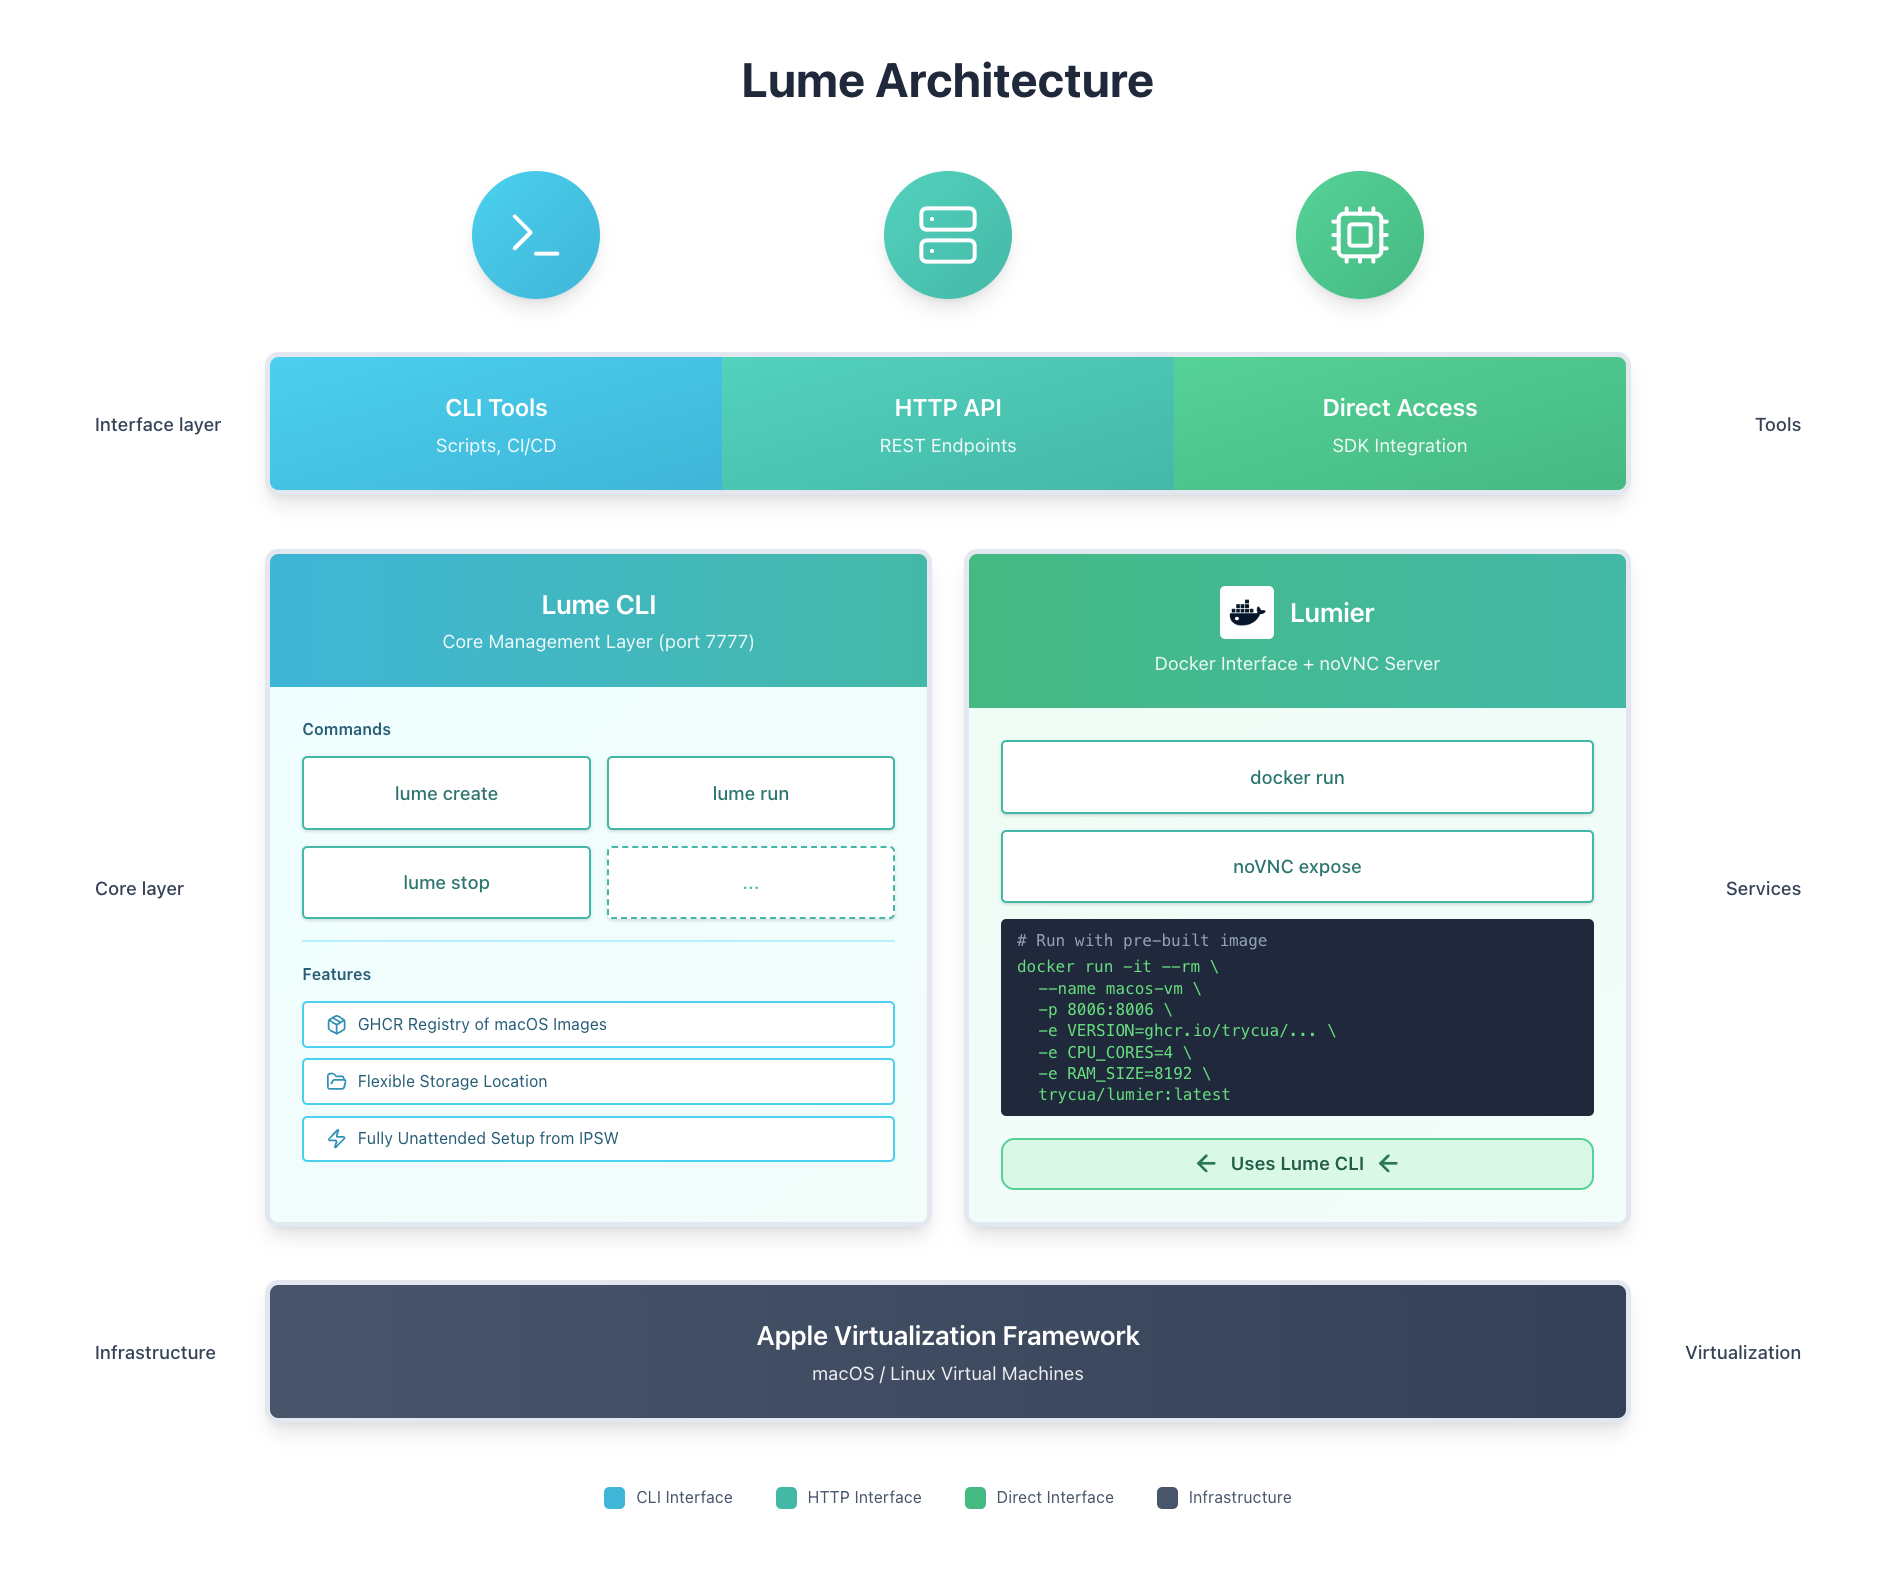
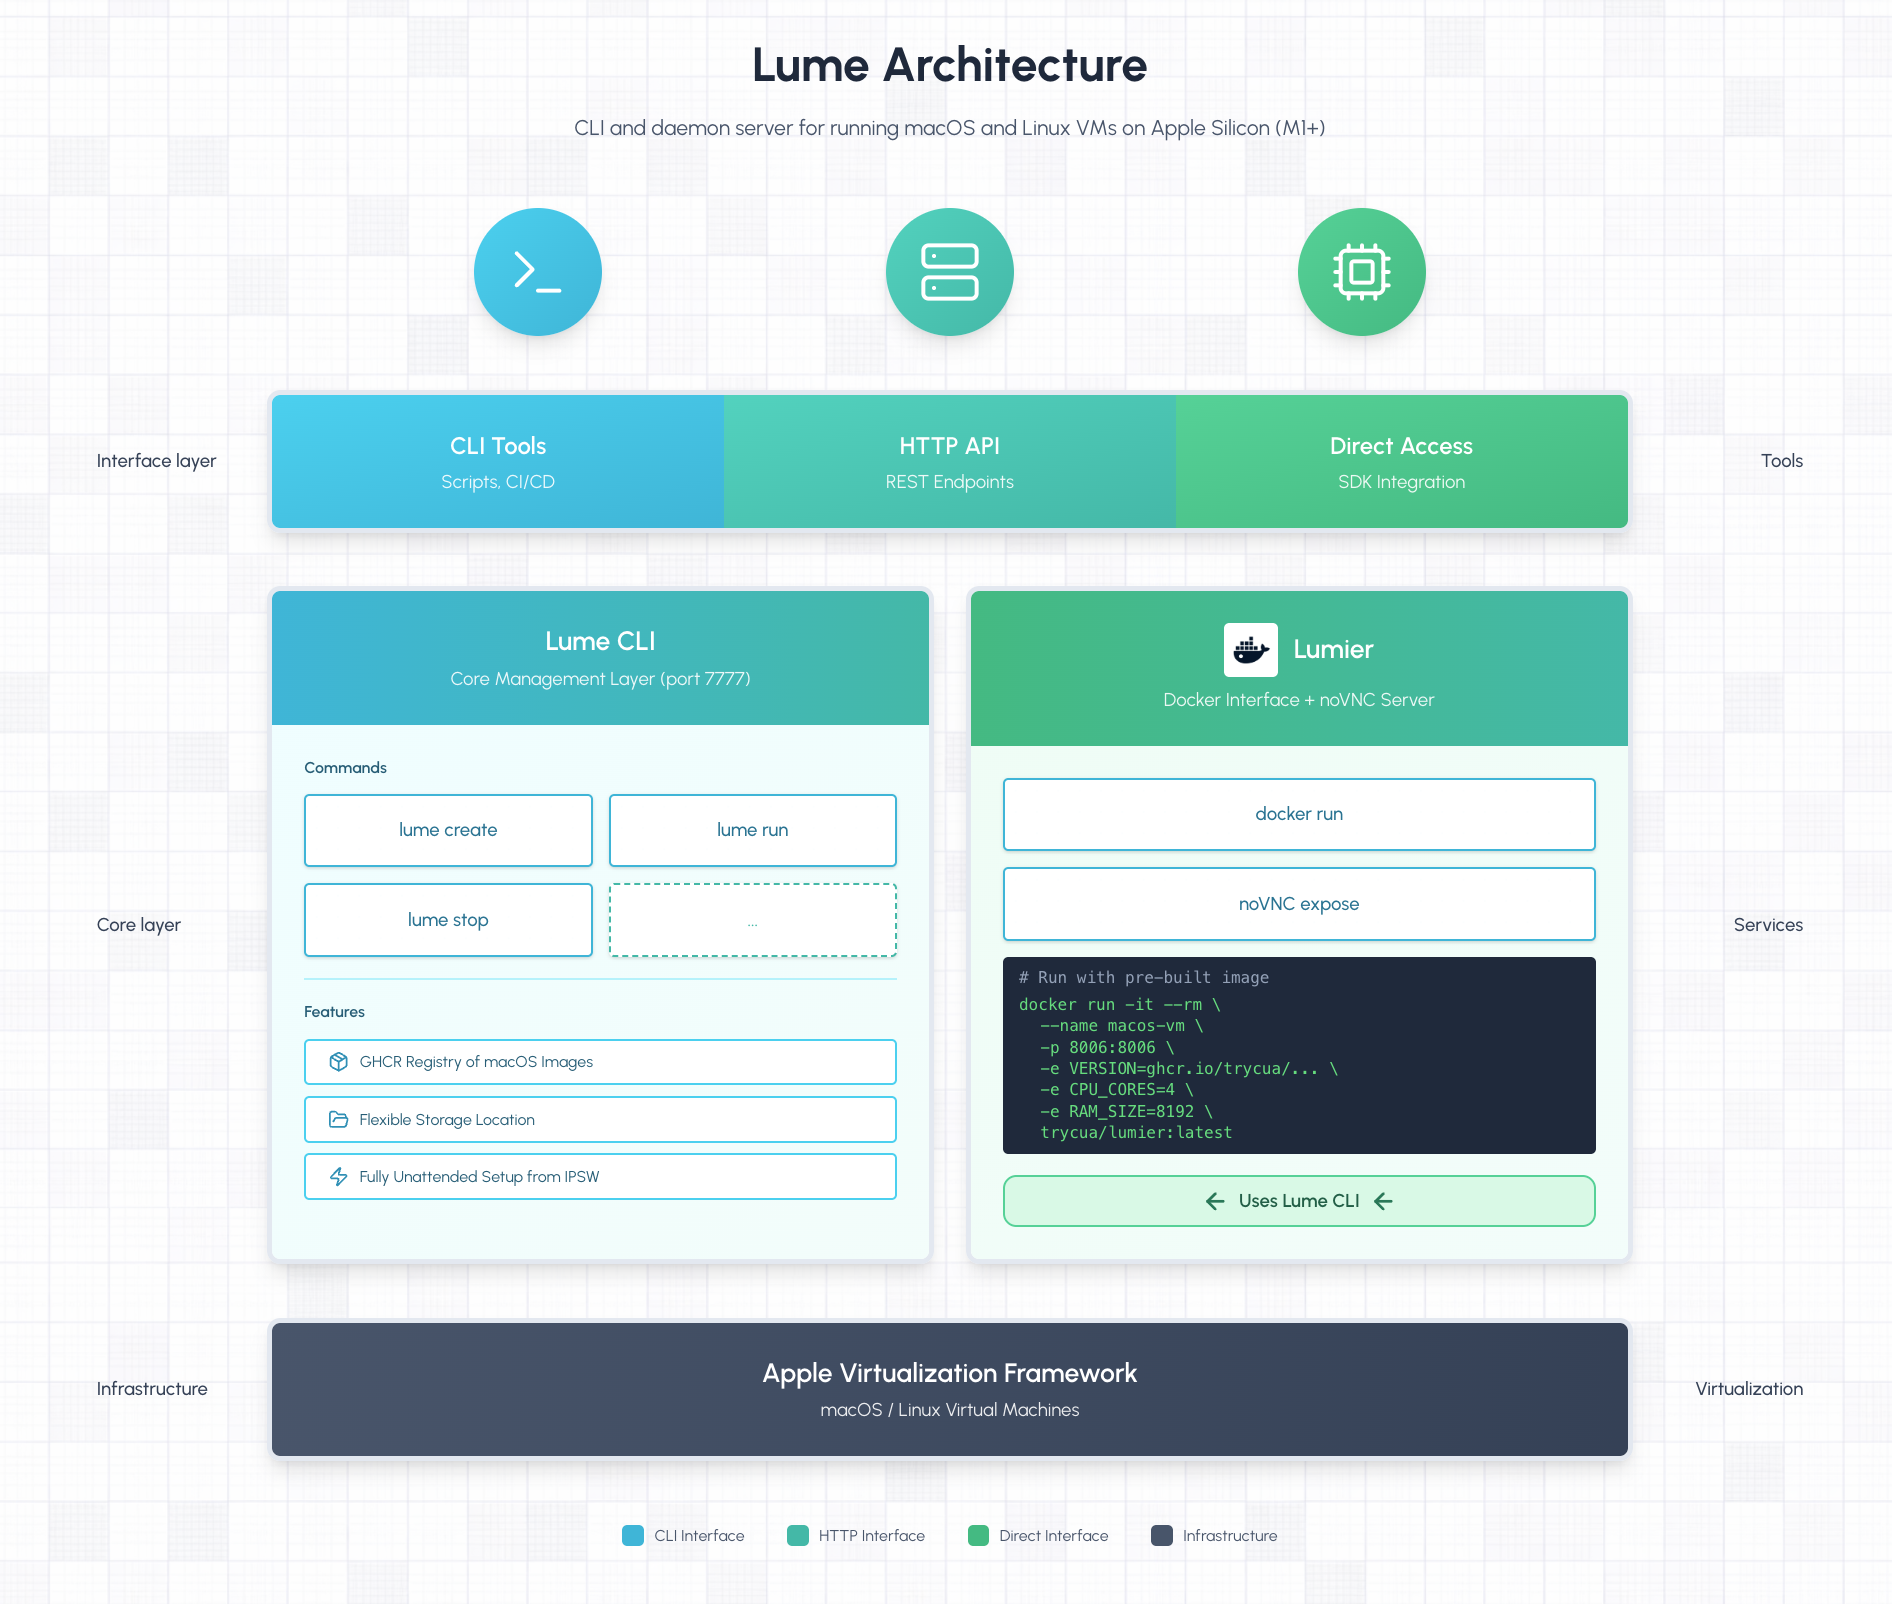
docs: update architecture images and improve documentation
- Add architecture diagram images (cua, cua-bench, lume) to README and docs
- Update README tagline to "Build, benchmark, and deploy agents that use computers"
- Add "Choose Your Path" table with clickable architecture previews in README
- Update Cua "What is Cua?" page with revised descriptions and use cases
- Update Cua-Bench introduction with architecture image and base images section
- Add cloud macOS sandbox pilot callout to Lume introduction
- Configure Urbanist font for headings in docs

diff --git a/docs/src/app/global.css b/docs/src/app/global.css
@@ -11,6 +11,12 @@
   --color-fd-accent: hsl(152, 76%, 92%); /* emerald-100 */
   --font-sans: var(--font-geist-sans);
   --font-mono: var(--font-geist-mono);
+  --font-heading: var(--font-urbanist);
+}
+
+/* Urbanist for headings */
+h1, h2, h3, h4 {
+  font-family: var(--font-heading), var(--font-sans), sans-serif;
 }
 
 .dark {

diff --git a/README.md b/README.md
@@ -7,7 +7,7 @@
     </picture>
   </a>
 
-  <p align="center">Any OS. Any agent. Self-hostable.</p>
+  <p align="center">Build, benchmark, and deploy agents that use computers</p>
 
   <p align="center">
     <a href="https://cua.ai" target="_blank" rel="noopener noreferrer"><img src="https://img.shields.io/badge/cua.ai-0ea5e9" alt="cua.ai"></a>
@@ -28,17 +28,19 @@
 
 ## Choose Your Path
 
-| If you want to...                              | Check out                                                 | For                          |
-| ---------------------------------------------- | --------------------------------------------------------- | ---------------------------- |
-| Build AI agents or run isolated code execution | [**Cua**](#cua---agentic-ui-automation--code-execution)   | AI Engineers                 |
-| Benchmark or train computer-use models with RL | [**Cua-Bench**](#cua-bench---benchmarks--rl-environments) | Researchers                  |
-| Run macOS/Linux VMs on Apple Silicon           | [**Lume**](#lume---macos-virtualization)                  | Developers, System Engineers |
+|  | If you want to...                              | Check out                                                 |
+| - | ---------------------------------------------- | --------------------------------------------------------- |
+| [<img src="img/cua-architecture.png" width="150">](#cua---agentic-ui-automation--code-execution) | Build AI agents or run isolated code execution | [**Cua**](#cua---agentic-ui-automation--code-execution)   |
+| [<img src="img/cua-bench-architecture.png" width="150">](#cua-bench---benchmarks--rl-environments) | Benchmark or train computer-use models with RL | [**Cua-Bench**](#cua-bench---benchmarks--rl-environments) |
+| [<img src="img/lume-architecture.png" width="150">](#lume---macos-virtualization) | Run macOS/Linux VMs on Apple Silicon           | [**Lume**](#lume---macos-virtualization)                  |
 
 ---
 
 ## Cua - Agentic UI Automation & Code Execution
 
 Build agents that see screens, click buttons, and complete tasks autonomously. Run isolated code execution environments for AI coding assistants like Claude Code, Codex CLI, or OpenCode.
+
+<img src="img/cua-architecture.png" alt="Cua Architecture" width="100%">
 
 ```python
 # Requires Python 3.12 or 3.13
@@ -60,6 +62,8 @@ async for result in agent.run([{"role": "user", "content": "Open Firefox and sea
 
 Evaluate computer-use agents on OSWorld, ScreenSpot, Windows Arena, and custom tasks. Export trajectories for training.
 
+<img src="img/cua-bench-architecture.png" alt="Cua-Bench Architecture" width="100%">
+
 ```bash
 # Install and create base image
 cd cua-bench
@@ -76,6 +80,8 @@ cb run dataset datasets/cua-bench-basic --agent cua-agent --max-parallel 4
 ## Lume - macOS Virtualization
 
 Create and manage macOS/Linux VMs with near-native performance on Apple Silicon using Apple's Virtualization.Framework.
+
+<img src="img/lume-architecture.png" alt="Lume Architecture" width="100%">
 
 ```bash
 # Install Lume
